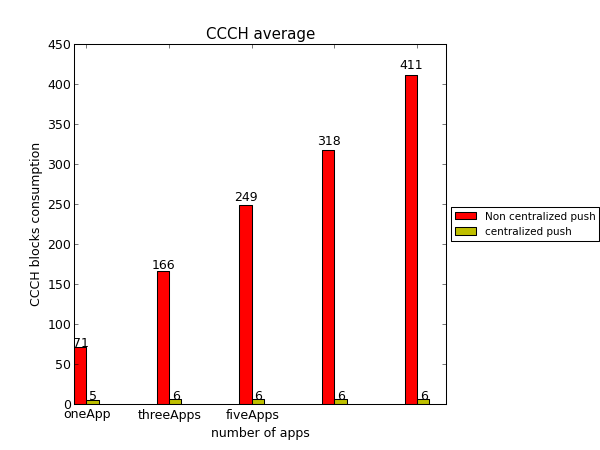
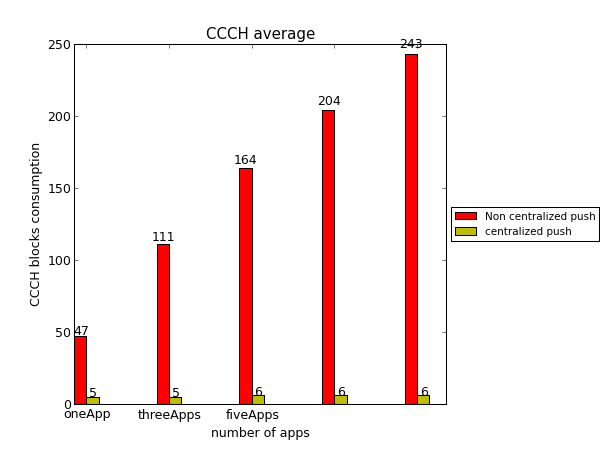
update: add launch app time & heart beat starttime interval

diff --git a/project/calModule/cal.py b/project/calModule/cal.py
@@ -8,7 +8,7 @@ from rdEmulatorConf import *
 from exportImg import *
 
 #get emulator conf
-TBF_DELAY, TBF_DELAY_TEST_START, TBF_DELAY_TEST_END, EMULATE_TIMES, NUMBER_OF_APP, CEN_PUSH_HB_START, CEN_PUSH_HB_END = readEmulatorConf()
+TBF_DELAY, TBF_DELAY_TEST_START, TBF_DELAY_TEST_END, EMULATE_TIMES, NUMBER_OF_APP, CEN_PUSH_HB_START, CEN_PUSH_HB_END, LAUNCH_APP_INTERVAL = readEmulatorConf()
 
 def __getRandomInt(rangeStr):
     """get a random int from a string represents a range, the string should be in such format: 'start-end'
@@ -24,26 +24,45 @@ def __initApps():
     appConfs = readAppConf()
     apps = []
     cnt = 0
+    launch_time = 0
     while (cnt < NUMBER_OF_APP):
         app = {}
+        
+        #get app launch time
+        app["launchTime"] = launch_time
+        launch_time += __getRandomInt(LAUNCH_APP_INTERVAL)
+        
+        #get heart beat start interval
+        intervals = [__getRandomInt(interval) for interval in appConfs[cnt]["HBIntervals"]]
+        random.shuffle(intervals)
+        hbStartInterval = intervals[0]
+        
         #front end conf
         app["FEHBTypes"] = __getRandomInt(appConfs[cnt]["FEHBTypesRange"])
         type = 0
         app["FEHBTimes"] = []
+        app["FEHBStartTime"] = []
+        hbStartTime = 0
         while (type < app["FEHBTypes"]):
             tmp = random.randint(0, len(appConfs[cnt]["FEHBTimesRanges"]) - 1)
             hbtimes = __getRandomInt(appConfs[cnt]["FEHBTimesRanges"][tmp])
             app["FEHBTimes"].append(hbtimes)
+            app["FEHBStartTime"].append(hbStartTime)
+            hbStartTime += hbStartInterval
             type += 1
         
         #back end conf
         app["BEHBTypes"] = __getRandomInt(appConfs[cnt]["BEHBTypesRange"])
         type = 0
         app["BEHBTimes"] = []
+        app["BEHBStartTime"] = []
+        hbStartTime = 0
         while (type < app["BEHBTypes"]):
             tmp = random.randint(0, len(appConfs[cnt]["BEHBTimesRanges"]) - 1)
             hbtimes = __getRandomInt(appConfs[cnt]["BEHBTimesRanges"][tmp])
             app["BEHBTimes"].append(hbtimes)
+            app["BEHBStartTime"].append(hbStartTime)
+            hbStartTime += hbStartInterval
             type += 1
         apps.append(app)
         cnt += 1
@@ -58,14 +77,17 @@ def __calTimeSlot(timeSlot, app, useFrontConf):
     if (useFrontConf):
         HBTypes = app["FEHBTypes"]
         app["HBTimes"] = app["FEHBTimes"]
+        app["HBStartTime"] = app["FEHBStartTime"]
     else:
         HBTypes = app["BEHBTypes"]
         app["HBTimes"] = app["BEHBTimes"]
+        app["HBStartTime"] = app["BEHBStartTime"]
     type = 0
     while (type < HBTypes):
         cnt = 0
-        while (cnt * app["HBTimes"][type] < 3600):
-            time = cnt * app["HBTimes"][type]
+        hbStartTime = app["launchTime"] + app["HBStartTime"][cnt]
+        while (hbStartTime + cnt * app["HBTimes"][type] < 3600):
+            time = hbStartTime + cnt * app["HBTimes"][type]
             timeSlot[time] = 1
             cnt += 1
         type += 1

diff --git a/project/calModule/rdEmulatorConf.py b/project/calModule/rdEmulatorConf.py
@@ -24,6 +24,7 @@ def readEmulatorConf():
     number_of_apps = int(stringData.split("\n")[3].split(":")[1])
     cen_push_start = int(stringData.split("\n")[4].split(":")[1].split(",")[0])
     cen_push_end = int(stringData.split("\n")[4].split(":")[1].split(",")[1])
+    launch_app_interval = stringData.split("\n")[5].split(":")[1]
     fConf.close()
     
-    return tbf_delay, tbf_delay_test_start, tbf_delay_test_end, emulate_times, number_of_apps, cen_push_start, cen_push_end
+    return tbf_delay, tbf_delay_test_start, tbf_delay_test_end, emulate_times, number_of_apps, cen_push_start, cen_push_end, launch_app_interval

diff --git a/project/calModule/rdAppConf.py b/project/calModule/rdAppConf.py
@@ -27,6 +27,8 @@ def readAppConf():
         #back end
         appConf["BEHBTypesRange"] = stringData.split("\n")[5].split(":")[1]
         appConf["BEHBTimesRanges"] = stringData.split("\n")[6].split(":")[1].split(",")
+        
+        appConf["HBIntervals"] = stringData.split("\n")[8].split(":")[1].split(",")
         confs.append(appConf)
         fConf.close()
         cnt += 1
